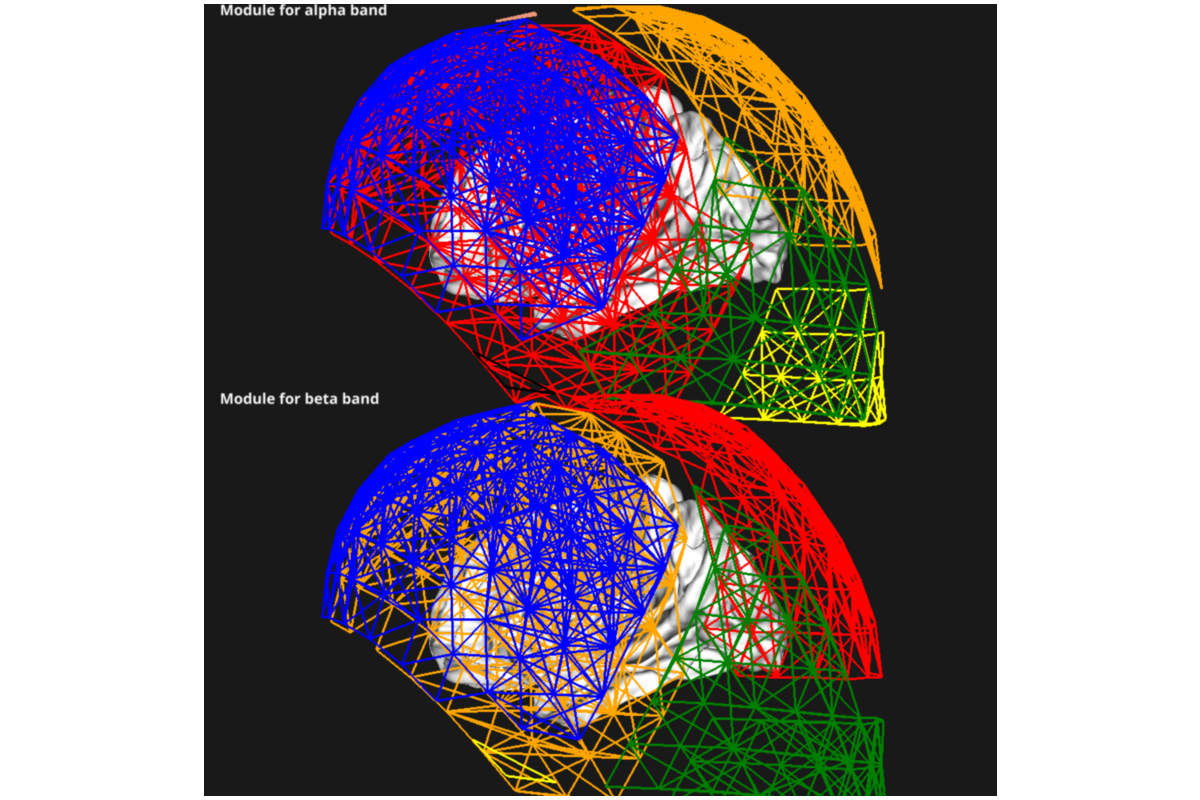
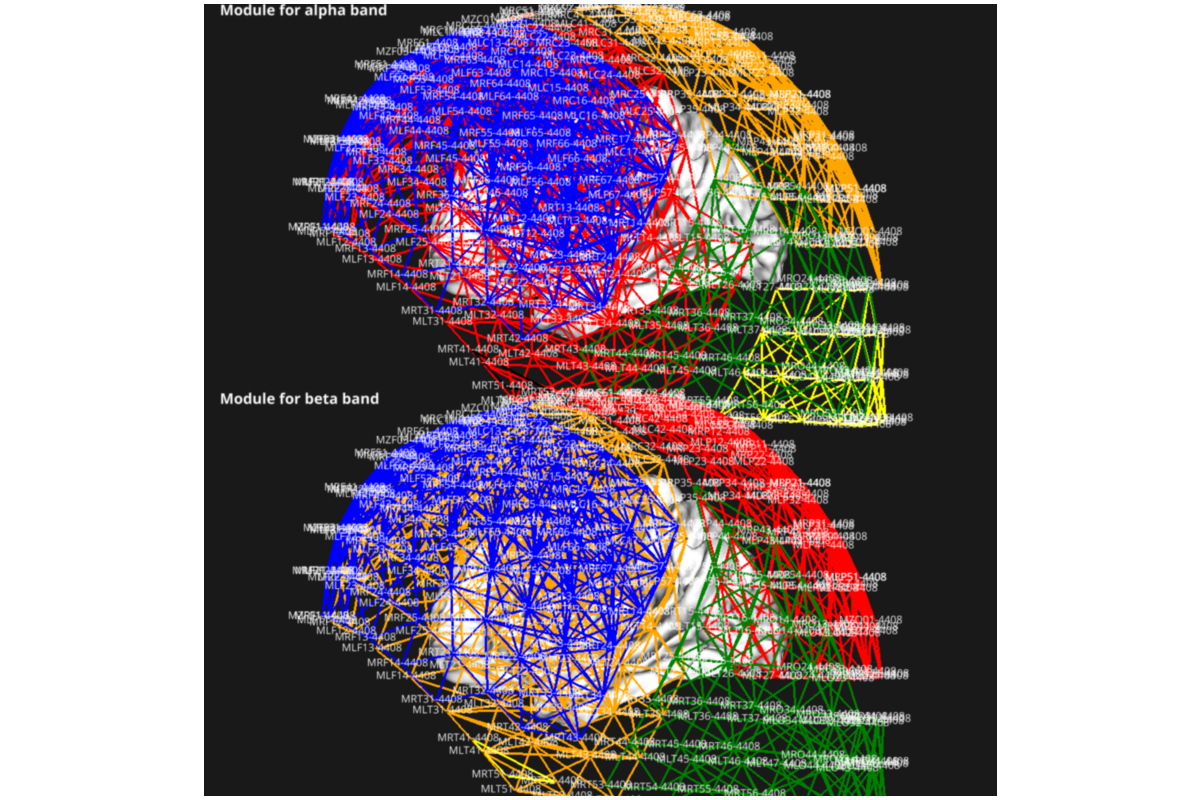
Make install

Changed region(s): [[0.2467, 0.0, 0.7708, 1.0]]

diff --git a/searchindex.js b/searchindex.js
@@ -1,1 +1,1 @@
-Search.setIndex({docnames:["api","auto_examples/index","auto_examples/plot_conmat_to_graph","auto_examples/plot_inv_ts_to_graph","index"],envversion:{"sphinx.domains.c":1,"sphinx.domains.changeset":1,"sphinx.domains.cpp":1,"sphinx.domains.javascript":1,"sphinx.domains.math":2,"sphinx.domains.python":1,"sphinx.domains.rst":1,"sphinx.domains.std":1,"sphinx.ext.intersphinx":1,"sphinx.ext.viewcode":1,sphinx:55},filenames:["api.rst","auto_examples/index.rst","auto_examples/plot_conmat_to_graph.rst","auto_examples/plot_inv_ts_to_graph.rst","index.rst"],objects:{},objnames:{},objtypes:{},terms:{"01_meg_0_60_raw_filt_dsamp_ica_roi_t":3,"export":4,"final":[2,3],"function":[2,3,4],"import":[2,3],"true":[2,3],"try":[2,3],AND:3,For:[2,3],The:[2,3,4],Then:[2,3],__path__:[2,3],_blank:2,_freq_band_name_:[2,3],_subject_id_sub:3,add:4,add_to_subplot:[2,3],admiss:[2,3],advanc:4,again:[2,3],algorithm:[2,3],all:[1,3,4],alon:4,alpha:[2,3],also:[2,3],analys:[3,4],analysi:[2,3,4],anoth:4,api:4,assort:3,author:[2,3],auto_examples_jupyt:1,auto_examples_python:1,avail:[2,3],axi:[2,3],b_obj:[2,3],band:[2,3],base:[2,3,4],base_dir:[2,3],base_directori:[2,3],bashrc:4,best:[2,3],beta:[2,3],bgcolor:[2,3],bigger:4,both:3,brain:4,brainobj:[2,3],briefli:[2,3],bsd:[2,3],c_obj:[2,3],can:[2,3,4],cat:[2,3,4],chain:3,chanc:[2,3],check:[2,3],chosen:[2,3],classic:3,claus:[2,3],click:[2,3],code:[1,2,3],coh:3,coher:[2,3],color:[2,3],com:4,common:4,commonli:4,commrada:3,commun:3,communities_detect:4,communities_tool:4,community_rada:[2,3],comput:[1,4],con_den:[2,3],con_method:3,config:[2,3],conmat_0_coh:2,conmat_fil:[2,3],conmat_to_graph:[2,3,4],connec:2,connect:[1,4],contain:[2,3],coords_fil:[2,3],corrdespond:3,correct_channel_nam:2,correl:[2,3],correspond:[2,3],cpu:[2,3],creat:[2,3],create_datagrabb:2,create_iter:3,create_pipeline_conmat_to_graph_dens:[2,3],create_pipeline_time_series_to_spectral_connect:3,data:[2,3,4],data_con:2,data_inv_t:3,data_path:[2,3],datagrabb:[2,3],datasourc:[2,3],david:[2,3,4],david_meunier_79:[2,3],defin:4,deim:[2,3,4],densiti:[2,3],detail:[2,3],detect:3,develop:4,dict:[2,3],differ:[2,3,4],directli:3,directori:[2,3,4],download:[1,2,3,4],each:4,easi:4,edg:3,eeg:4,effici:3,electrophysiolog:4,engin:[2,3,4],enumer:[2,3],env:4,ephypyp:[2,3,4],epoch_window_length:3,etc:[2,3],exampl:[2,3],except:[2,3],execut:[2,3],exist:4,exit:[2,3],expect:[2,3],extract:[3,4],facilit:4,fals:[2,3],fast:[2,3,4],field:[2,4],fif:[3,4],figsiz:[2,3],figur:[2,3],file:[3,4],filenam:[2,3],find_commun:4,first:[2,3],fmri:4,focu:4,follow:4,follw:[2,3],format:[2,3,4],found:[2,3],framework:4,freq_band:3,freq_band_nam:[2,3],frequenc:[2,3],frequency_nod:3,from:[1,4],full:[2,3],fulli:3,func:[2,3],galleri:[2,3],gener:[1,2,3],get:3,get_frequency_band:3,github:4,give:3,given:1,global:[2,3],gomez:[2,3,4],grab:[2,3],graph2us:[2,3],graph:[1,4],graph_analysi:2,graph_analysis_nam:[2,3],graph_den_pipe_den_0_05:2,graph_den_pipe_den_:3,graph_workflow:[2,3],graphpyp:[0,2,3],have:[2,3],here:[2,3],higher:[2,3],highest:3,home:4,hotmail:[2,3],how:[2,3],href:2,html:2,http:[2,3,4],identityinterfac:2,imag:4,img:[2,3],implement:[2,3,4],importerror:[2,3],imread:[2,3],imshow:[2,3],includ:4,infield:[2,3],info:3,infosourc:[2,3],input:[2,3,4],inputnod:[2,3],instal:[2,3],instanti:[2,3],inter_modul:[2,3],interest:3,interfac:[2,3],inv_ts_to_graph:[3,4],inv_ts_to_graph_analysi:3,ipynb:[2,3],iter:[2,3],its:3,job:[2,3],join:[2,3],jupyt:[1,2,3],kit:4,label_centroid:3,label_nam:3,labels_fil:[2,3],last:[2,3],least:[2,3],left:[2,3],lego:4,licens:[2,3],line:4,linux32:4,linux64:4,local:[2,3],lol:[2,3],lol_fil:[2,3],longer:[2,3],loop:2,main:4,main_workflow:[2,3],make:3,mani:4,martino:2,master:4,mat:4,matlab:4,matplotlib:[2,3],matric:4,matrix:1,maximum:[2,3],mayb:4,mean:[2,3],meg:[3,4],metric:3,meunier:[2,3],minut:[2,3],misc:[2,3],mne:[2,4],mni_coord:2,modal:4,modul:[2,3,4],moment:[2,3],more:[2,3],most:3,multi:4,multipl:3,multiproc:[2,3],n_proc:[2,3],name:[2,3],need:[2,3],net:[2,3],net_fil:[2,3],netproprada:3,network_properti:4,network_tool:4,neuro:4,neuroimag:4,neuropycon_data:[2,3],nio:[2,3],nipyp:[2,3,4],node:[0,2,3,4],noqa:[2,3],notebook:[1,2,3],notic:[2,3],now:[2,3],npy:[2,3,4],number:[2,3],numpi:4,object:[2,3],off:[2,3],one:[2,3],open:4,optim_seq:[2,3],optimis:[2,3],option:[2,3],order:[2,3],org:2,other_tool:4,our:[2,3],out:[2,3],outfield:[2,3],output:[2,3,4],over:[3,4],packag:4,paramet:[2,3],parrallel:3,particular:[2,3,4],pass:[2,3],path:[2,3,4],paus:[2,3],pearson:[2,3],percentag:3,perform:[2,3],php:[2,3,4],pip:[2,3,4],pipelin:[0,2,3,4],pli:[2,3],plot:[2,3],plot_conmat_to_graph:2,plot_connectivity_circl:2,plot_inv_ts_to_graph:3,plotspectralconn:2,plt:[2,3],plugin:[2,3],plugin_arg:[2,3],png:[2,3],possibl:4,prep_rada:[2,3],prepare_network:4,present:3,preview:[2,3],previou:3,print:[2,3],process:4,project:4,proper:3,properti:1,propos:[2,3],provid:4,pyplot:[2,3],python3:4,python:[1,2,3,4],rada:3,rada_path:4,radatool:[2,3],radatools_optim:[2,3],raw:[3,4],reach:[2,3],readi:[2,3],readm:[2,3],ref:3,reformat_result:4,reliabl:[2,3],remove_unnecessary_output:[2,3],repetit:[2,3],replac:[3,4],repo:4,reposit:[2,3],requir:[2,3],res_path:[2,3],rest_run:3,result:[2,3],retain:3,rotat:[2,3],row:[2,3],run:[2,3,4],s_task:3,sampl:3,sceneobj:[2,3],scipi:[2,3],script:[2,3],search:[2,3],second:[2,3],see:[2,3],sequenc:[2,3],sergio:[2,3,4],seri:[3,4],set:4,sever:[2,3],sfreq:3,should:[2,3,4],show:[2,3],sign:[2,3],size:[2,3],small:3,softwar:4,some:[2,3],sort_filelist:[2,3],sotwar:4,sourc:[1,2,3,4],special:3,specifi:[2,3,4],spectral:[2,3,4],spectral_connect:2,spectral_connectivity_paramet:3,spectral_workflow:3,spectralconn:2,sphinx:[1,2,3],stabl:2,stand:4,start:3,step:4,store:[2,3],str:3,sub:3,subject_id:3,subsequ:4,symetr:2,tabu:[2,3],take:[2,3],taken:[2,3],target:2,tell:[2,3],templat:[2,3],template_arg:[2,3],template_path:[2,3],test:[2,3],tfrf:[2,3],theoret:4,thi:[2,3],thread:4,three:4,threshold:[2,3],thu:[2,3],time:[2,3,4],titl:[2,3],title_bold:[2,3],title_color:[2,3],title_s:[2,3],togeth:[2,3,4],tool:4,total:[2,3],transluc:[2,3],trial:3,ts_file:3,ts_to_conmat:3,two:[2,3,4],txt:[2,3],typic:[2,3],unsign:[2,3],upon:[2,3],urv:[2,3,4],use:3,use_this_cam:[2,3],used:[2,3,4],user:4,using:2,util:[0,2],utils_visbrain:[2,3],valu:[2,3],variabl:4,veri:[2,3,4],visbrain:[2,3],visu_graph_modul:[2,3],visual:[2,3],viz:2,wai:4,warn:[2,3],weight:[2,3],well:4,what:2,when:3,where:4,which:[2,3,4],white:[2,3],within:[2,3],work:4,workflow:[2,3,4],world:3,wrap:4,write:[2,3],write_graph:[2,3],you:4,your:4,z_list:[2,3],z_offset:2,zip:[1,4],zipbal:4},titles:["API Documentation","Examples Gallery","Compute Graph properties from a given connectivity matrix","Compute Graph properties from a given connectivity matrix","Neuropycon"],titleterms:{For:4,api:0,comput:[2,3],connect:[2,3],document:0,exampl:1,from:[2,3],galleri:1,given:[2,3],graph:[2,3],graphpyp:4,instal:4,matrix:[2,3],neuropycon:4,properti:[2,3],radatool:4}})
+Search.setIndex({docnames:["api","auto_examples/index","auto_examples/plot_conmat_to_graph","auto_examples/plot_inv_ts_to_graph","index"],envversion:{"sphinx.domains.c":1,"sphinx.domains.changeset":1,"sphinx.domains.cpp":1,"sphinx.domains.javascript":1,"sphinx.domains.math":2,"sphinx.domains.python":1,"sphinx.domains.rst":1,"sphinx.domains.std":1,"sphinx.ext.intersphinx":1,"sphinx.ext.viewcode":1,sphinx:55},filenames:["api.rst","auto_examples/index.rst","auto_examples/plot_conmat_to_graph.rst","auto_examples/plot_inv_ts_to_graph.rst","index.rst"],objects:{},objnames:{},objtypes:{},terms:{"01_meg_0_60_raw_filt_dsamp_ica_roi_t":3,"export":4,"final":[2,3],"function":[2,3,4],"import":[2,3],"true":[2,3],"try":[2,3],AND:3,For:[2,3],The:[2,3,4],Then:[2,3],__path__:[2,3],_blank:2,_freq_band_name_:[2,3],_subject_id_sub:3,add:4,add_to_subplot:[2,3],admiss:[2,3],advanc:4,again:[2,3],algorithm:[2,3],all:[1,3,4],alon:4,alpha:[2,3],also:[2,3],analys:[3,4],analysi:[2,3,4],anoth:4,api:4,assort:3,author:[2,3],auto_examples_jupyt:1,auto_examples_python:1,avail:[2,3],axi:[2,3],b_obj:[2,3],band:[2,3],base:[2,3,4],base_dir:[2,3],base_directori:[2,3],bashrc:4,best:[2,3],beta:[2,3],bgcolor:[2,3],bigger:4,both:3,brain:4,brainobj:[2,3],briefli:[2,3],bsd:[2,3],c_obj:[2,3],can:[2,3,4],cat:[2,3,4],chain:3,chanc:[2,3],check:[2,3],chosen:[2,3],classic:3,claus:[2,3],click:[2,3],code:[1,2,3],coh:3,coher:[2,3],color:[2,3],com:4,common:4,commonli:4,commrada:3,commun:3,communities_detect:4,communities_tool:4,community_rada:[2,3],comput:[1,4],con_den:[2,3],con_method:3,config:[2,3],conmat_0_coh:2,conmat_fil:[2,3],conmat_to_graph:[2,3,4],connec:2,connect:[1,4],contain:[2,3],coords_fil:[2,3],corrdespond:3,correct_channel_nam:2,correl:[2,3],correspond:[2,3],cpu:[2,3],creat:[2,3],create_datagrabb:2,create_iter:3,create_pipeline_conmat_to_graph_dens:[2,3],create_pipeline_time_series_to_spectral_connect:3,data:[2,3,4],data_con:2,data_inv_t:3,data_path:[2,3],datagrabb:[2,3],datasourc:[2,3],david:[2,3,4],david_meunier_79:[2,3],defin:4,deim:[2,3,4],densiti:[2,3],detail:[2,3],detect:3,develop:4,dict:[2,3],differ:[2,3,4],directli:3,directori:[2,3,4],download:[1,2,3,4],each:4,easi:4,edg:3,eeg:4,effici:3,electrophysiolog:4,engin:[2,3,4],enumer:[2,3],env:4,ephypyp:[2,3,4],epoch_window_length:3,etc:[2,3],exampl:[2,3],except:[2,3],execut:[2,3],exist:4,exit:[2,3],expect:[2,3],extract:[3,4],facilit:4,fals:[2,3],fast:[2,3,4],field:[2,4],fif:[3,4],figsiz:[2,3],figur:[2,3],file:[3,4],filenam:[2,3],find_commun:4,first:[2,3],fmri:4,focu:4,follow:4,follw:[2,3],format:[2,3,4],found:[2,3],framework:4,freq_band:3,freq_band_nam:[2,3],frequenc:[2,3],frequency_nod:3,from:[1,4],full:[2,3],fulli:3,func:[2,3],galleri:[2,3],gener:[1,2,3],get:3,get_frequency_band:3,github:4,give:3,given:1,global:[2,3],gomez:[2,3,4],grab:[2,3],graph2us:[2,3],graph:[1,4],graph_analysi:2,graph_analysis_nam:[2,3],graph_den_pipe_den_0_05:2,graph_den_pipe_den_:3,graph_workflow:[2,3],graphpyp:[0,2,3],have:[2,3],here:[2,3],higher:[2,3],highest:3,home:4,hotmail:[2,3],how:[2,3],href:2,html:2,http:[2,3,4],identityinterfac:2,imag:4,img:[2,3],implement:[2,3,4],importerror:[2,3],imread:[2,3],imshow:[2,3],includ:4,infield:[2,3],info:3,infosourc:[2,3],input:[2,3,4],inputnod:[2,3],instal:[2,3],instanti:[2,3],inter_modul:[2,3],interest:3,interfac:[2,3],inv_ts_to_graph:[3,4],inv_ts_to_graph_analysi:3,ipynb:[2,3],iter:[2,3],its:3,job:[2,3],join:[2,3],jupyt:[1,2,3],kit:4,label_centroid:3,label_nam:3,labels_fil:[2,3],last:[2,3],least:[2,3],left:[2,3],lego:4,licens:[2,3],line:4,linux32:4,linux64:4,local:[2,3],lol:[2,3],lol_fil:[2,3],longer:[2,3],loop:2,main:4,main_workflow:[2,3],make:3,mani:4,martino:2,master:4,mat:4,matlab:4,matplotlib:[2,3],matric:4,matrix:1,maximum:[2,3],mayb:4,mean:[2,3],meg:[3,4],metric:3,meunier:[2,3],minut:[2,3],misc:[2,3],mne:[2,4],mni_coord:2,modal:4,modul:[2,3,4],moment:[2,3],more:[2,3],most:3,multi:4,multipl:3,multiproc:[2,3],n_proc:[2,3],name:[2,3],need:[2,3],net:[2,3],net_fil:[2,3],netproprada:3,network_properti:4,network_tool:4,neuro:4,neuroimag:4,neuropycon_data:[2,3],nio:[2,3],nipyp:[2,3,4],node:[0,2,3,4],noqa:[2,3],notebook:[1,2,3],notic:[2,3],now:[2,3],npy:[2,3,4],number:[2,3],numpi:4,object:[2,3],off:[2,3],one:[2,3],open:4,optim_seq:[2,3],optimis:[2,3],option:[2,3],order:[2,3],org:2,other_tool:4,our:[2,3],out:[2,3],outfield:[2,3],output:[2,3,4],over:[3,4],packag:4,paramet:[2,3],parrallel:3,particular:[2,3,4],pass:[2,3],path:[2,3,4],paus:[2,3],pearson:[2,3],percentag:3,perform:[2,3],php:[2,3,4],pip:[2,3,4],pipelin:[0,2,3,4],pli:[2,3],plot:[2,3],plot_conmat_to_graph:2,plot_connectivity_circl:2,plot_inv_ts_to_graph:3,plotspectralconn:2,plt:[2,3],plugin:[2,3],plugin_arg:[2,3],png:[2,3],possibl:4,prep_rada:[2,3],prepare_network:4,present:3,preview:[2,3],previou:3,print:[2,3],process:4,project:4,proper:3,properti:1,propos:[2,3],provid:4,pyplot:[2,3],python3:4,python:[1,2,3,4],rada:3,rada_path:4,radatool:[2,3],radatools_optim:[2,3],raw:[3,4],reach:[2,3],readi:[2,3],readm:[2,3],ref:3,reformat_result:4,reliabl:[2,3],remove_unnecessary_output:[2,3],repetit:[2,3],replac:[3,4],repo:4,reposit:[2,3],requir:[2,3],res_path:[2,3],rest_run:3,result:[2,3],retain:3,rotat:[2,3],row:[2,3],run:[2,3,4],s_obj:[2,3],s_task:3,sampl:3,sceneobj:[2,3],scipi:[2,3],script:[2,3],search:[2,3],second:[2,3],see:[2,3],sequenc:[2,3],sergio:[2,3,4],seri:[3,4],set:4,sever:[2,3],sfreq:3,should:[2,3,4],show:[2,3],sign:[2,3],size:[2,3],small:3,softwar:4,some:[2,3],sort_filelist:[2,3],sotwar:4,sourc:[1,2,3,4],special:3,specifi:[2,3,4],spectral:[2,3,4],spectral_connect:2,spectral_connectivity_paramet:3,spectral_workflow:3,spectralconn:2,sphinx:[1,2,3],stabl:2,stand:4,start:3,step:4,store:[2,3],str:3,sub:3,subject_id:3,subsequ:4,symetr:2,tabu:[2,3],take:[2,3],taken:[2,3],target:2,tell:[2,3],templat:[2,3],template_arg:[2,3],template_path:[2,3],test:[2,3],tfrf:[2,3],theoret:4,thi:[2,3],thread:4,three:4,threshold:[2,3],thu:[2,3],time:[2,3,4],titl:[2,3],title_bold:[2,3],title_color:[2,3],title_s:[2,3],togeth:[2,3,4],tool:4,total:[2,3],transluc:[2,3],trial:3,ts_file:3,ts_to_conmat:3,two:[2,3,4],txt:[2,3],typic:[2,3],unsign:[2,3],upon:[2,3],urv:[2,3,4],use:3,use_this_cam:[2,3],used:[2,3,4],user:4,using:2,util:[0,2],utils_visbrain:[2,3],valu:[2,3],variabl:4,veri:[2,3,4],visbrain:[2,3],visu_graph_modul:[2,3],visual:[2,3],viz:2,wai:4,warn:[2,3],weight:[2,3],well:4,what:2,when:3,where:4,which:[2,3,4],white:[2,3],within:[2,3],work:4,workflow:[2,3,4],world:3,wrap:4,write:[2,3],write_graph:[2,3],you:4,your:4,z_list:[2,3],z_offset:2,zip:[1,4],zipbal:4},titles:["API Documentation","Examples Gallery","Compute Graph properties from a given connectivity matrix","Compute Graph properties from a given connectivity matrix","Neuropycon"],titleterms:{For:4,api:0,comput:[2,3],connect:[2,3],document:0,exampl:1,from:[2,3],galleri:1,given:[2,3],graph:[2,3],graphpyp:4,instal:4,matrix:[2,3],neuropycon:4,properti:[2,3],radatool:4}})

diff --git a/auto_examples/plot_conmat_to_graph.html b/auto_examples/plot_conmat_to_graph.html
@@ -290,17 +290,19 @@ here correspond to how we connected the nodes.</p>
         <span class="n">title</span><span class="o">=</span><span class="p">(</span><span class="s2">&quot;Module for {} band&quot;</span><span class="o">.</span><span class="n">format</span><span class="p">(</span><span class="n">freq_band_name</span><span class="p">)),</span>
         <span class="n">title_size</span><span class="o">=</span><span class="mi">14</span><span class="p">,</span> <span class="n">title_bold</span><span class="o">=</span><span class="bp">True</span><span class="p">,</span> <span class="n">title_color</span><span class="o">=</span><span class="s1">&#39;white&#39;</span><span class="p">)</span>
 
-    <span class="n">c_obj</span> <span class="o">=</span> <span class="n">visu_graph_modules</span><span class="p">(</span><span class="n">lol_file</span><span class="o">=</span><span class="n">lol_file</span><span class="p">,</span> <span class="n">net_file</span><span class="o">=</span><span class="n">net_file</span><span class="p">,</span>
+    <span class="n">c_obj</span><span class="p">,</span><span class="n">s_obj</span> <span class="o">=</span> <span class="n">visu_graph_modules</span><span class="p">(</span><span class="n">lol_file</span><span class="o">=</span><span class="n">lol_file</span><span class="p">,</span> <span class="n">net_file</span><span class="o">=</span><span class="n">net_file</span><span class="p">,</span>
                                <span class="n">coords_file</span><span class="o">=</span><span class="n">coords_file</span><span class="p">,</span>
                                <span class="n">labels_file</span><span class="o">=</span><span class="n">labels_file</span><span class="p">,</span> <span class="n">inter_modules</span><span class="o">=</span><span class="bp">False</span><span class="p">,</span>
                                <span class="n">z_offset</span><span class="o">=+</span><span class="mi">50</span><span class="p">)</span>
     <span class="n">sc</span><span class="o">.</span><span class="n">add_to_subplot</span><span class="p">(</span><span class="n">c_obj</span><span class="p">,</span> <span class="n">row</span><span class="o">=</span><span class="n">nf</span><span class="p">)</span>
+    <span class="n">sc</span><span class="o">.</span><span class="n">add_to_subplot</span><span class="p">(</span><span class="n">s_obj</span><span class="p">,</span> <span class="n">row</span><span class="o">=</span><span class="n">nf</span><span class="p">)</span>
+
 
 <span class="n">sc</span><span class="o">.</span><span class="n">preview</span><span class="p">()</span>
 </pre></div>
 </div>
 <img alt="../_images/sphx_glr_plot_conmat_to_graph_002.png" class="sphx-glr-single-img" src="../_images/sphx_glr_plot_conmat_to_graph_002.png" />
-<p><strong>Total running time of the script:</strong> ( 0 minutes  14.321 seconds)</p>
+<p><strong>Total running time of the script:</strong> ( 0 minutes  15.136 seconds)</p>
 <div class="sphx-glr-footer class sphx-glr-footer-example docutils container" id="sphx-glr-download-auto-examples-plot-conmat-to-graph-py">
 <div class="sphx-glr-download docutils container">
 <a class="reference download internal" download="" href="../_downloads/148019e1e7aad92d3808c5ede724a325/plot_conmat_to_graph.py"><code class="xref download docutils literal notranslate"><span class="pre">Download</span> <span class="pre">Python</span> <span class="pre">source</span> <span class="pre">code:</span> <span class="pre">plot_conmat_to_graph.py</span></code></a></div>
@@ -322,7 +324,7 @@ here correspond to how we connected the nodes.</p>
       
     </p>
     <p>
-        &copy; Copyright 2019, Neuropycon Developers. Last updated on 2019-01-30.<br/>
+        &copy; Copyright 2019, Neuropycon Developers. Last updated on 2019-02-01.<br/>
       Created using <a href="http://sphinx-doc.org/">Sphinx</a> 1.8.2.<br/>
     </p>
   </div>

diff --git a/auto_examples/plot_inv_ts_to_graph.html b/auto_examples/plot_inv_ts_to_graph.html
@@ -326,16 +326,18 @@ correspond to how we connected the nodes.</p>
                       <span class="n">title</span><span class="o">=</span><span class="p">(</span><span class="s2">&quot;Module for {} band&quot;</span><span class="o">.</span><span class="n">format</span><span class="p">(</span><span class="n">freq_band_name</span><span class="p">)),</span>
                       <span class="n">title_size</span><span class="o">=</span><span class="mi">14</span><span class="p">,</span> <span class="n">title_bold</span><span class="o">=</span><span class="bp">True</span><span class="p">,</span> <span class="n">title_color</span><span class="o">=</span><span class="s1">&#39;white&#39;</span><span class="p">)</span>
 
-    <span class="n">c_obj</span> <span class="o">=</span> <span class="n">visu_graph_modules</span><span class="p">(</span><span class="n">lol_file</span><span class="o">=</span><span class="n">lol_file</span><span class="p">,</span> <span class="n">net_file</span><span class="o">=</span><span class="n">net_file</span><span class="p">,</span>
+    <span class="n">c_obj</span><span class="p">,</span><span class="n">s_obj</span> <span class="o">=</span> <span class="n">visu_graph_modules</span><span class="p">(</span><span class="n">lol_file</span><span class="o">=</span><span class="n">lol_file</span><span class="p">,</span> <span class="n">net_file</span><span class="o">=</span><span class="n">net_file</span><span class="p">,</span>
                                <span class="n">coords_file</span><span class="o">=</span><span class="n">coords_file</span><span class="p">,</span>
                                <span class="n">labels_file</span><span class="o">=</span><span class="n">labels_file</span><span class="p">,</span> <span class="n">inter_modules</span><span class="o">=</span><span class="bp">False</span><span class="p">)</span>
+
     <span class="n">sc</span><span class="o">.</span><span class="n">add_to_subplot</span><span class="p">(</span><span class="n">c_obj</span><span class="p">,</span> <span class="n">row</span><span class="o">=</span><span class="n">nf</span><span class="p">)</span>
+    <span class="n">sc</span><span class="o">.</span><span class="n">add_to_subplot</span><span class="p">(</span><span class="n">s_obj</span><span class="p">,</span> <span class="n">row</span><span class="o">=</span><span class="n">nf</span><span class="p">)</span>
 
 <span class="n">sc</span><span class="o">.</span><span class="n">preview</span><span class="p">()</span>
 </pre></div>
 </div>
 <img alt="../_images/sphx_glr_plot_inv_ts_to_graph_002.png" class="sphx-glr-single-img" src="../_images/sphx_glr_plot_inv_ts_to_graph_002.png" />
-<p><strong>Total running time of the script:</strong> ( 0 minutes  23.070 seconds)</p>
+<p><strong>Total running time of the script:</strong> ( 0 minutes  23.970 seconds)</p>
 <div class="sphx-glr-footer class sphx-glr-footer-example docutils container" id="sphx-glr-download-auto-examples-plot-inv-ts-to-graph-py">
 <div class="sphx-glr-download docutils container">
 <a class="reference download internal" download="" href="../_downloads/c408898dc7b654b78c9005349545b8bd/plot_inv_ts_to_graph.py"><code class="xref download docutils literal notranslate"><span class="pre">Download</span> <span class="pre">Python</span> <span class="pre">source</span> <span class="pre">code:</span> <span class="pre">plot_inv_ts_to_graph.py</span></code></a></div>
@@ -357,7 +359,7 @@ correspond to how we connected the nodes.</p>
       
     </p>
     <p>
-        &copy; Copyright 2019, Neuropycon Developers. Last updated on 2019-01-30.<br/>
+        &copy; Copyright 2019, Neuropycon Developers. Last updated on 2019-02-01.<br/>
       Created using <a href="http://sphinx-doc.org/">Sphinx</a> 1.8.2.<br/>
     </p>
   </div>

diff --git a/index.html b/index.html
@@ -213,7 +213,7 @@ as well as providing easy ways to implement function defined by the user.</p>
       
     </p>
     <p>
-        &copy; Copyright 2019, Neuropycon Developers. Last updated on 2019-01-30.<br/>
+        &copy; Copyright 2019, Neuropycon Developers. Last updated on 2019-02-01.<br/>
       Created using <a href="http://sphinx-doc.org/">Sphinx</a> 1.8.2.<br/>
     </p>
   </div>

diff --git a/api.html b/api.html
@@ -148,7 +148,7 @@
       
     </p>
     <p>
-        &copy; Copyright 2019, Neuropycon Developers. Last updated on 2019-01-30.<br/>
+        &copy; Copyright 2019, Neuropycon Developers. Last updated on 2019-02-01.<br/>
       Created using <a href="http://sphinx-doc.org/">Sphinx</a> 1.8.2.<br/>
     </p>
   </div>

diff --git a/auto_examples/index.html b/auto_examples/index.html
@@ -140,7 +140,7 @@
       
     </p>
     <p>
-        &copy; Copyright 2019, Neuropycon Developers. Last updated on 2019-01-30.<br/>
+        &copy; Copyright 2019, Neuropycon Developers. Last updated on 2019-02-01.<br/>
       Created using <a href="http://sphinx-doc.org/">Sphinx</a> 1.8.2.<br/>
     </p>
   </div>

diff --git a/genindex.html b/genindex.html
@@ -116,7 +116,7 @@
       
     </p>
     <p>
-        &copy; Copyright 2019, Neuropycon Developers. Last updated on 2019-01-30.<br/>
+        &copy; Copyright 2019, Neuropycon Developers. Last updated on 2019-02-01.<br/>
       Created using <a href="http://sphinx-doc.org/">Sphinx</a> 1.8.2.<br/>
     </p>
   </div>

diff --git a/search.html b/search.html
@@ -138,7 +138,7 @@
       
     </p>
     <p>
-        &copy; Copyright 2019, Neuropycon Developers. Last updated on 2019-01-30.<br/>
+        &copy; Copyright 2019, Neuropycon Developers. Last updated on 2019-02-01.<br/>
       Created using <a href="http://sphinx-doc.org/">Sphinx</a> 1.8.2.<br/>
     </p>
   </div>

diff --git a/_downloads/148019e1e7aad92d3808c5ede724a325/plot_conmat_to_graph.py b/_downloads/148019e1e7aad92d3808c5ede724a325/plot_conmat_to_graph.py
@@ -193,10 +193,12 @@ for nf, freq_band_name in enumerate(freq_band_names):
         title=("Module for {} band".format(freq_band_name)),
         title_size=14, title_bold=True, title_color='white')
 
-    c_obj = visu_graph_modules(lol_file=lol_file, net_file=net_file,
+    c_obj,s_obj = visu_graph_modules(lol_file=lol_file, net_file=net_file,
                                coords_file=coords_file,
                                labels_file=labels_file, inter_modules=False,
                                z_offset=+50)
     sc.add_to_subplot(c_obj, row=nf)
+    sc.add_to_subplot(s_obj, row=nf)
+
 
 sc.preview()

diff --git a/_downloads/c408898dc7b654b78c9005349545b8bd/plot_inv_ts_to_graph.py b/_downloads/c408898dc7b654b78c9005349545b8bd/plot_inv_ts_to_graph.py
@@ -220,9 +220,11 @@ for nf, freq_band_name in enumerate(freq_band_names):
                       title=("Module for {} band".format(freq_band_name)),
                       title_size=14, title_bold=True, title_color='white')
 
-    c_obj = visu_graph_modules(lol_file=lol_file, net_file=net_file,
+    c_obj,s_obj = visu_graph_modules(lol_file=lol_file, net_file=net_file,
                                coords_file=coords_file,
                                labels_file=labels_file, inter_modules=False)
+
     sc.add_to_subplot(c_obj, row=nf)
+    sc.add_to_subplot(s_obj, row=nf)
 
 sc.preview()
